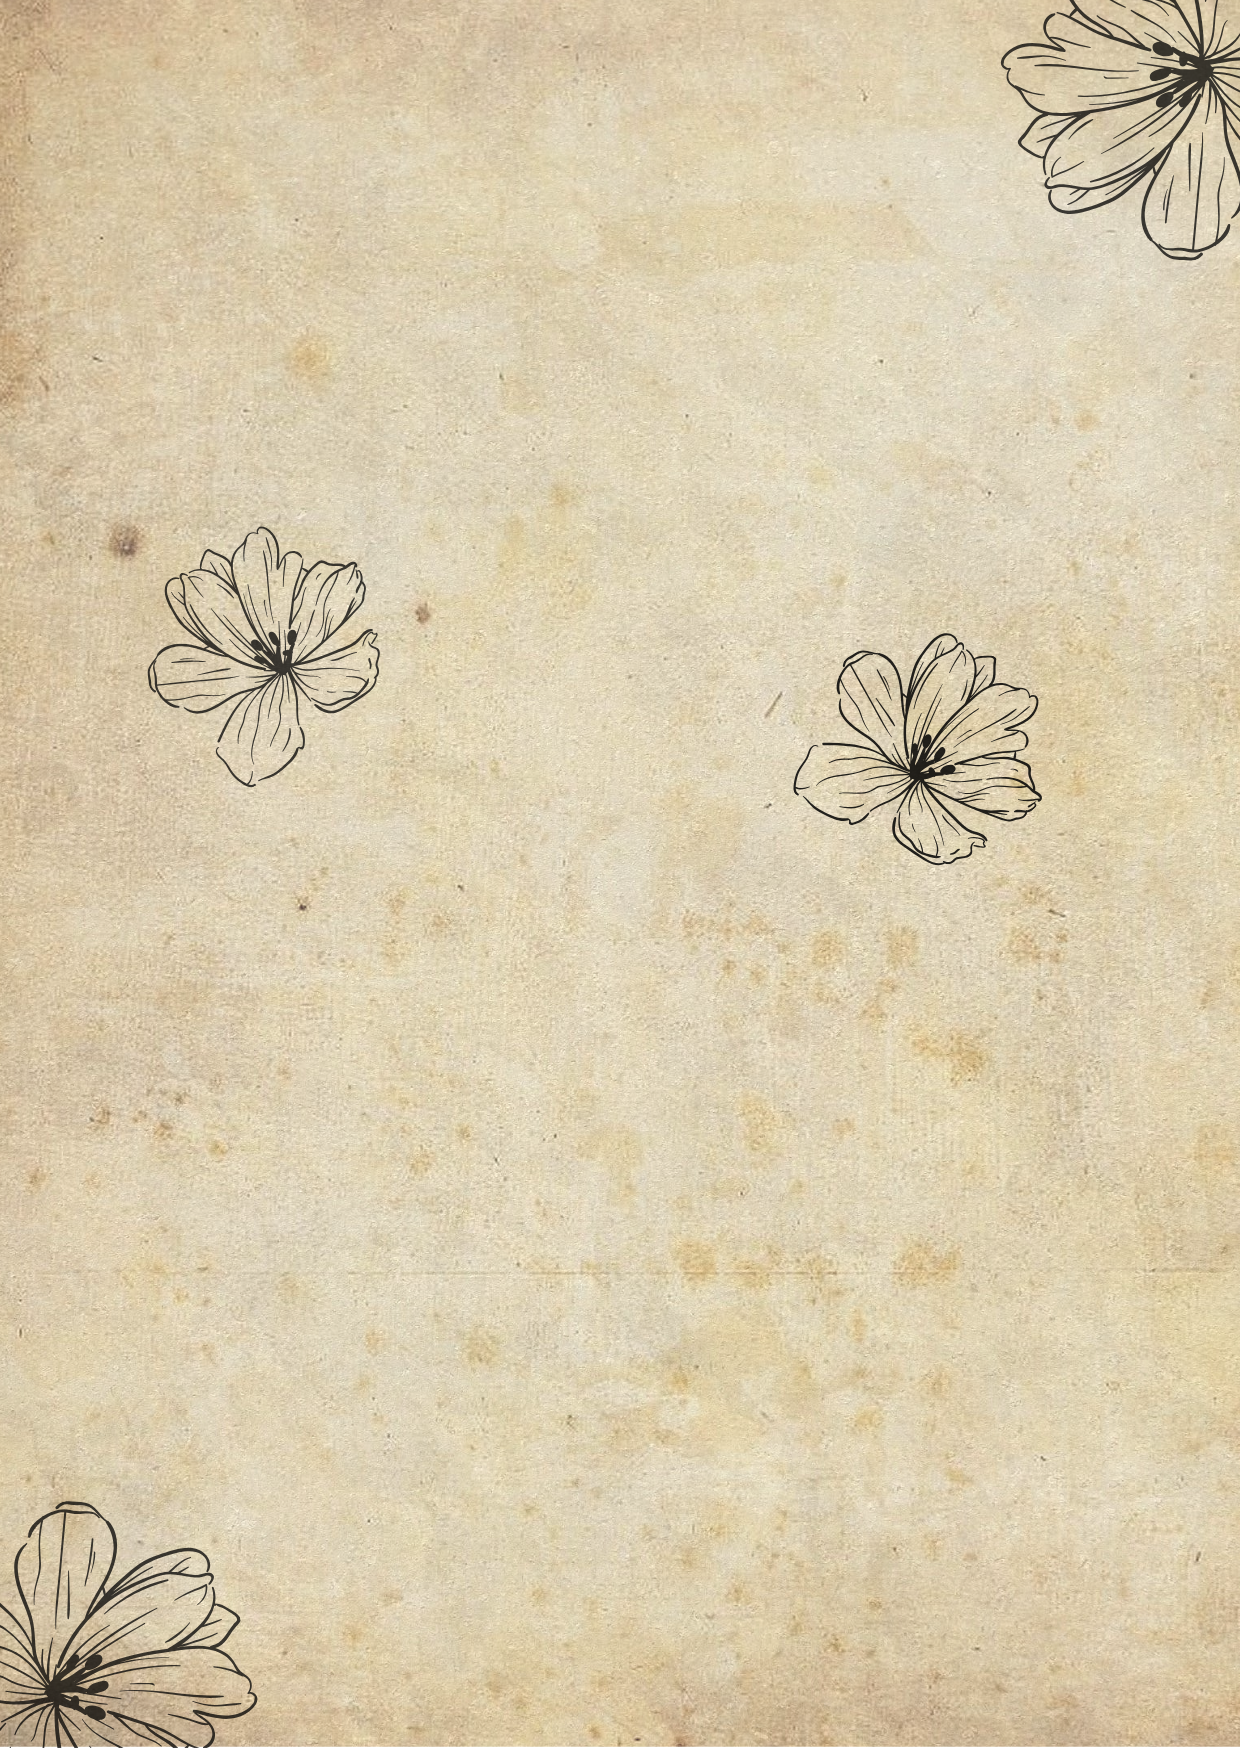
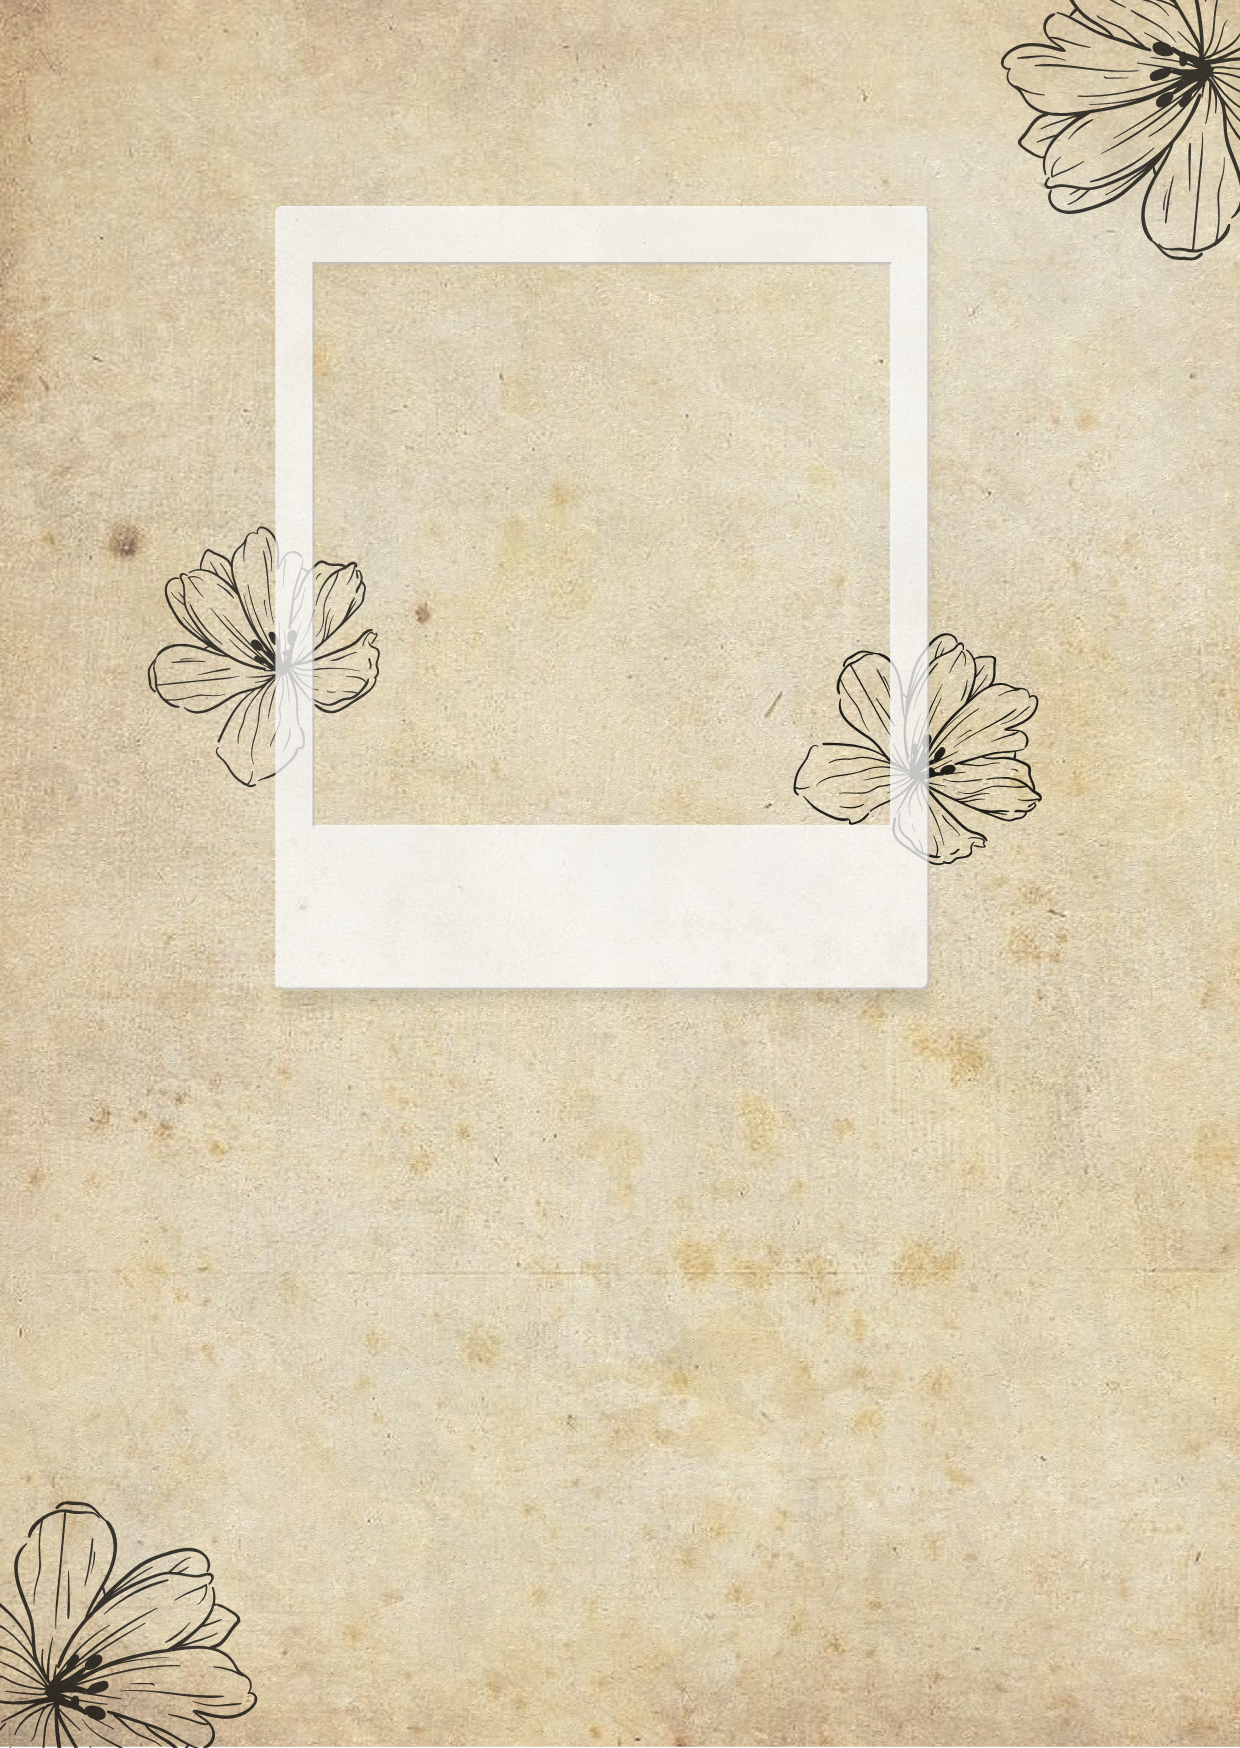
Commit #2: Synced updated style templates. Updated CORS config

Changed region(s): [[0.2145, 0.0927, 0.7661, 0.587]]

diff --git a/templates/classic/template.css b/templates/classic/template.css
@@ -10,7 +10,7 @@
 
 .classic-card__photo-frame {
   position: absolute;
-  top: 8%;
+  top: 11%;
   left: 50%;
   transform: translateX(-50%);
   width: 48%;
@@ -19,27 +19,32 @@
   align-items: center;
   justify-content: center;
   overflow: hidden;
+  border: 2px solid #3d3428;
+  border-radius: 2px;
+  box-shadow: 0 4px 14px rgba(44, 24, 16, 0.15);
 }
 
 .classic-card__photo-frame img {
   width: 100%;
   height: 100%;
   object-fit: cover;
+  display: block;
 }
 
 .classic-card__greeting {
   position: absolute;
-  top: 48%;
+  top: 50.5%;
   left: 50%;
   transform: translateX(-50%);
-  font-size: 1.6rem;
+  font-size: 2.1rem;
+  font-weight: 600;
   color: #3d3428;
   white-space: nowrap;
 }
 
 .classic-card__name {
   position: absolute;
-  top: 54%;
+  top: 57%;
   left: 50%;
   transform: translateX(-50%);
   font-size: 2.8rem;
@@ -52,10 +57,10 @@
 
 .classic-card__message {
   position: absolute;
-  top: 66%;
+  top: 65%;
   left: 50%;
   transform: translateX(-50%);
-  width: 70%;
+  width: 72%;
   text-align: center;
   font-family: 'Inter', sans-serif;
   font-size: 0.95rem;

diff --git a/app.rb b/app.rb
@@ -26,17 +26,27 @@ class App < Sinatra::Base
   configure do
     FileUtils.mkdir_p(TMP_DIR)
 
+    cors_env = ENV.fetch('CORS_ORIGIN', '*')
+    cors_origins = cors_env.include?(',') ? cors_env.split(',').map(&:strip) : cors_env
+
     use Rack::Cors do
       allow do
-        origins(ENV.fetch('CORS_ORIGIN', '*'))
-        resource '/generate', methods: [:post, :options], headers: :any
-        resource '/', methods: [:get], headers: :any
+        origins(cors_origins)
+        resource '*', methods: [:get, :post, :options], headers: :any
       end
     end
   end
 
-  # Health check
+  # Health check probes (used by Render health check and client readiness monitors)
   get '/' do
+    json({
+      status: 'ok',
+      service: 'send-an-owl',
+      message: 'Owl post is ready and listening!'
+    })
+  end
+
+  get '/health' do
     json({
       status: 'ok',
       service: 'send-an-owl',

diff --git a/lib/pdf_generator.rb b/lib/pdf_generator.rb
@@ -13,6 +13,7 @@ module PdfGenerator
       format: 'A5',
       print_background: true,
       prefer_css_page_size: true,
+      wait_until: 'networkidle0',
       launch_args: [
         '--no-sandbox',
         '--disable-setuid-sandbox',
